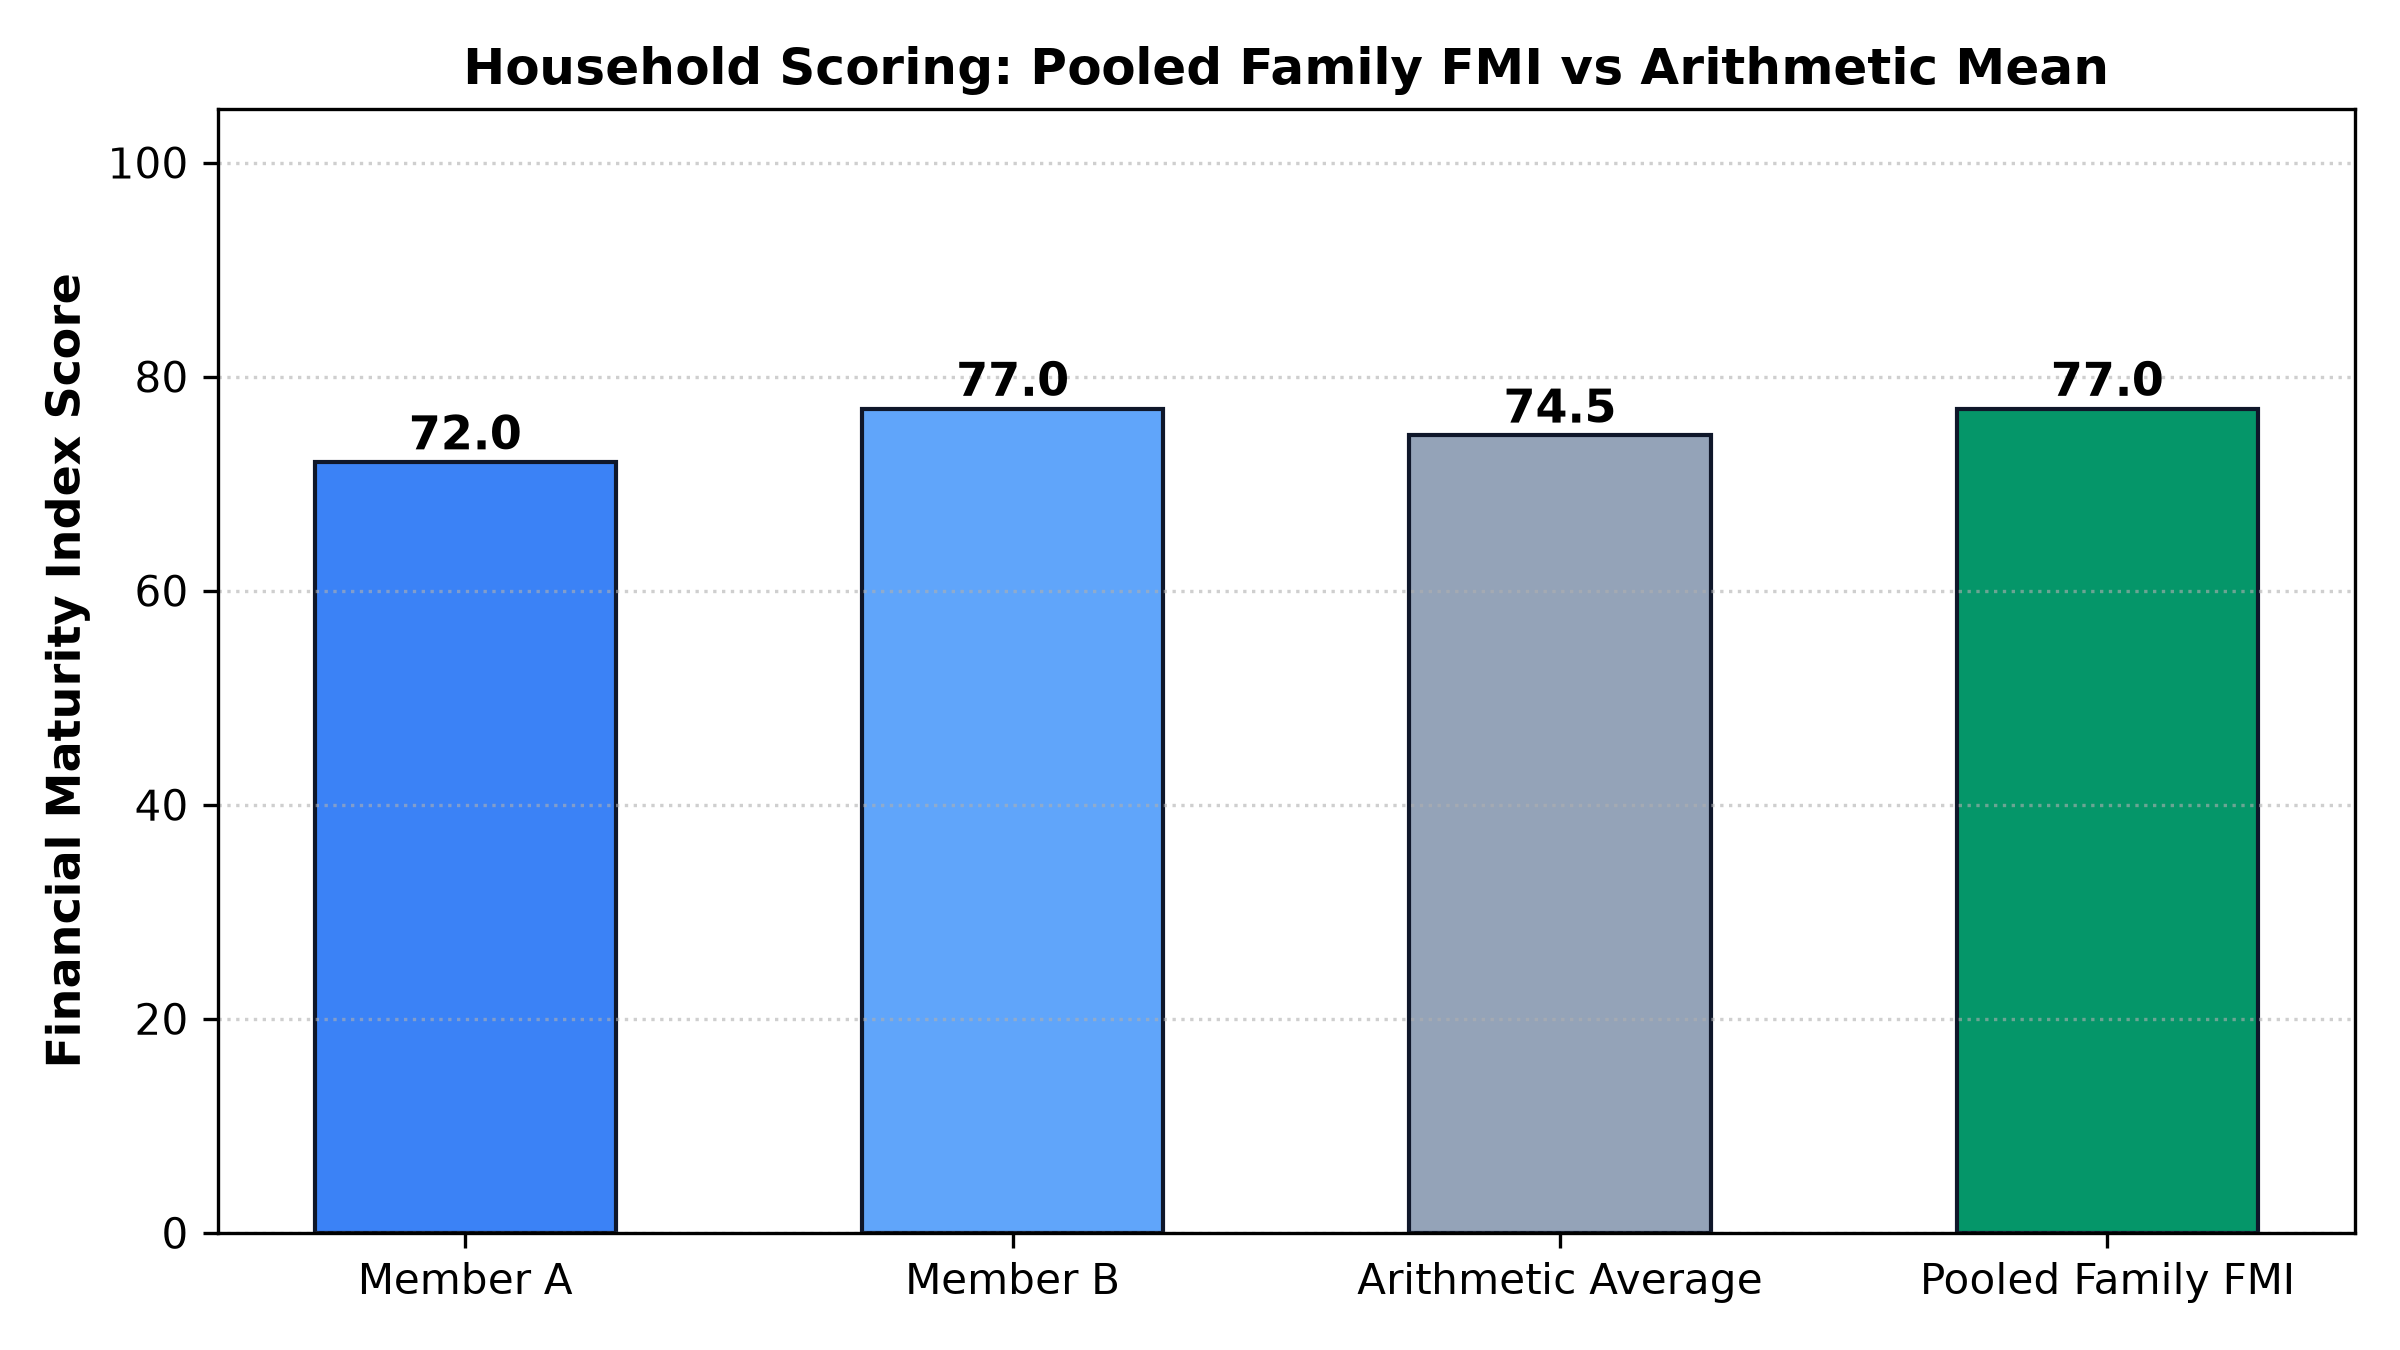
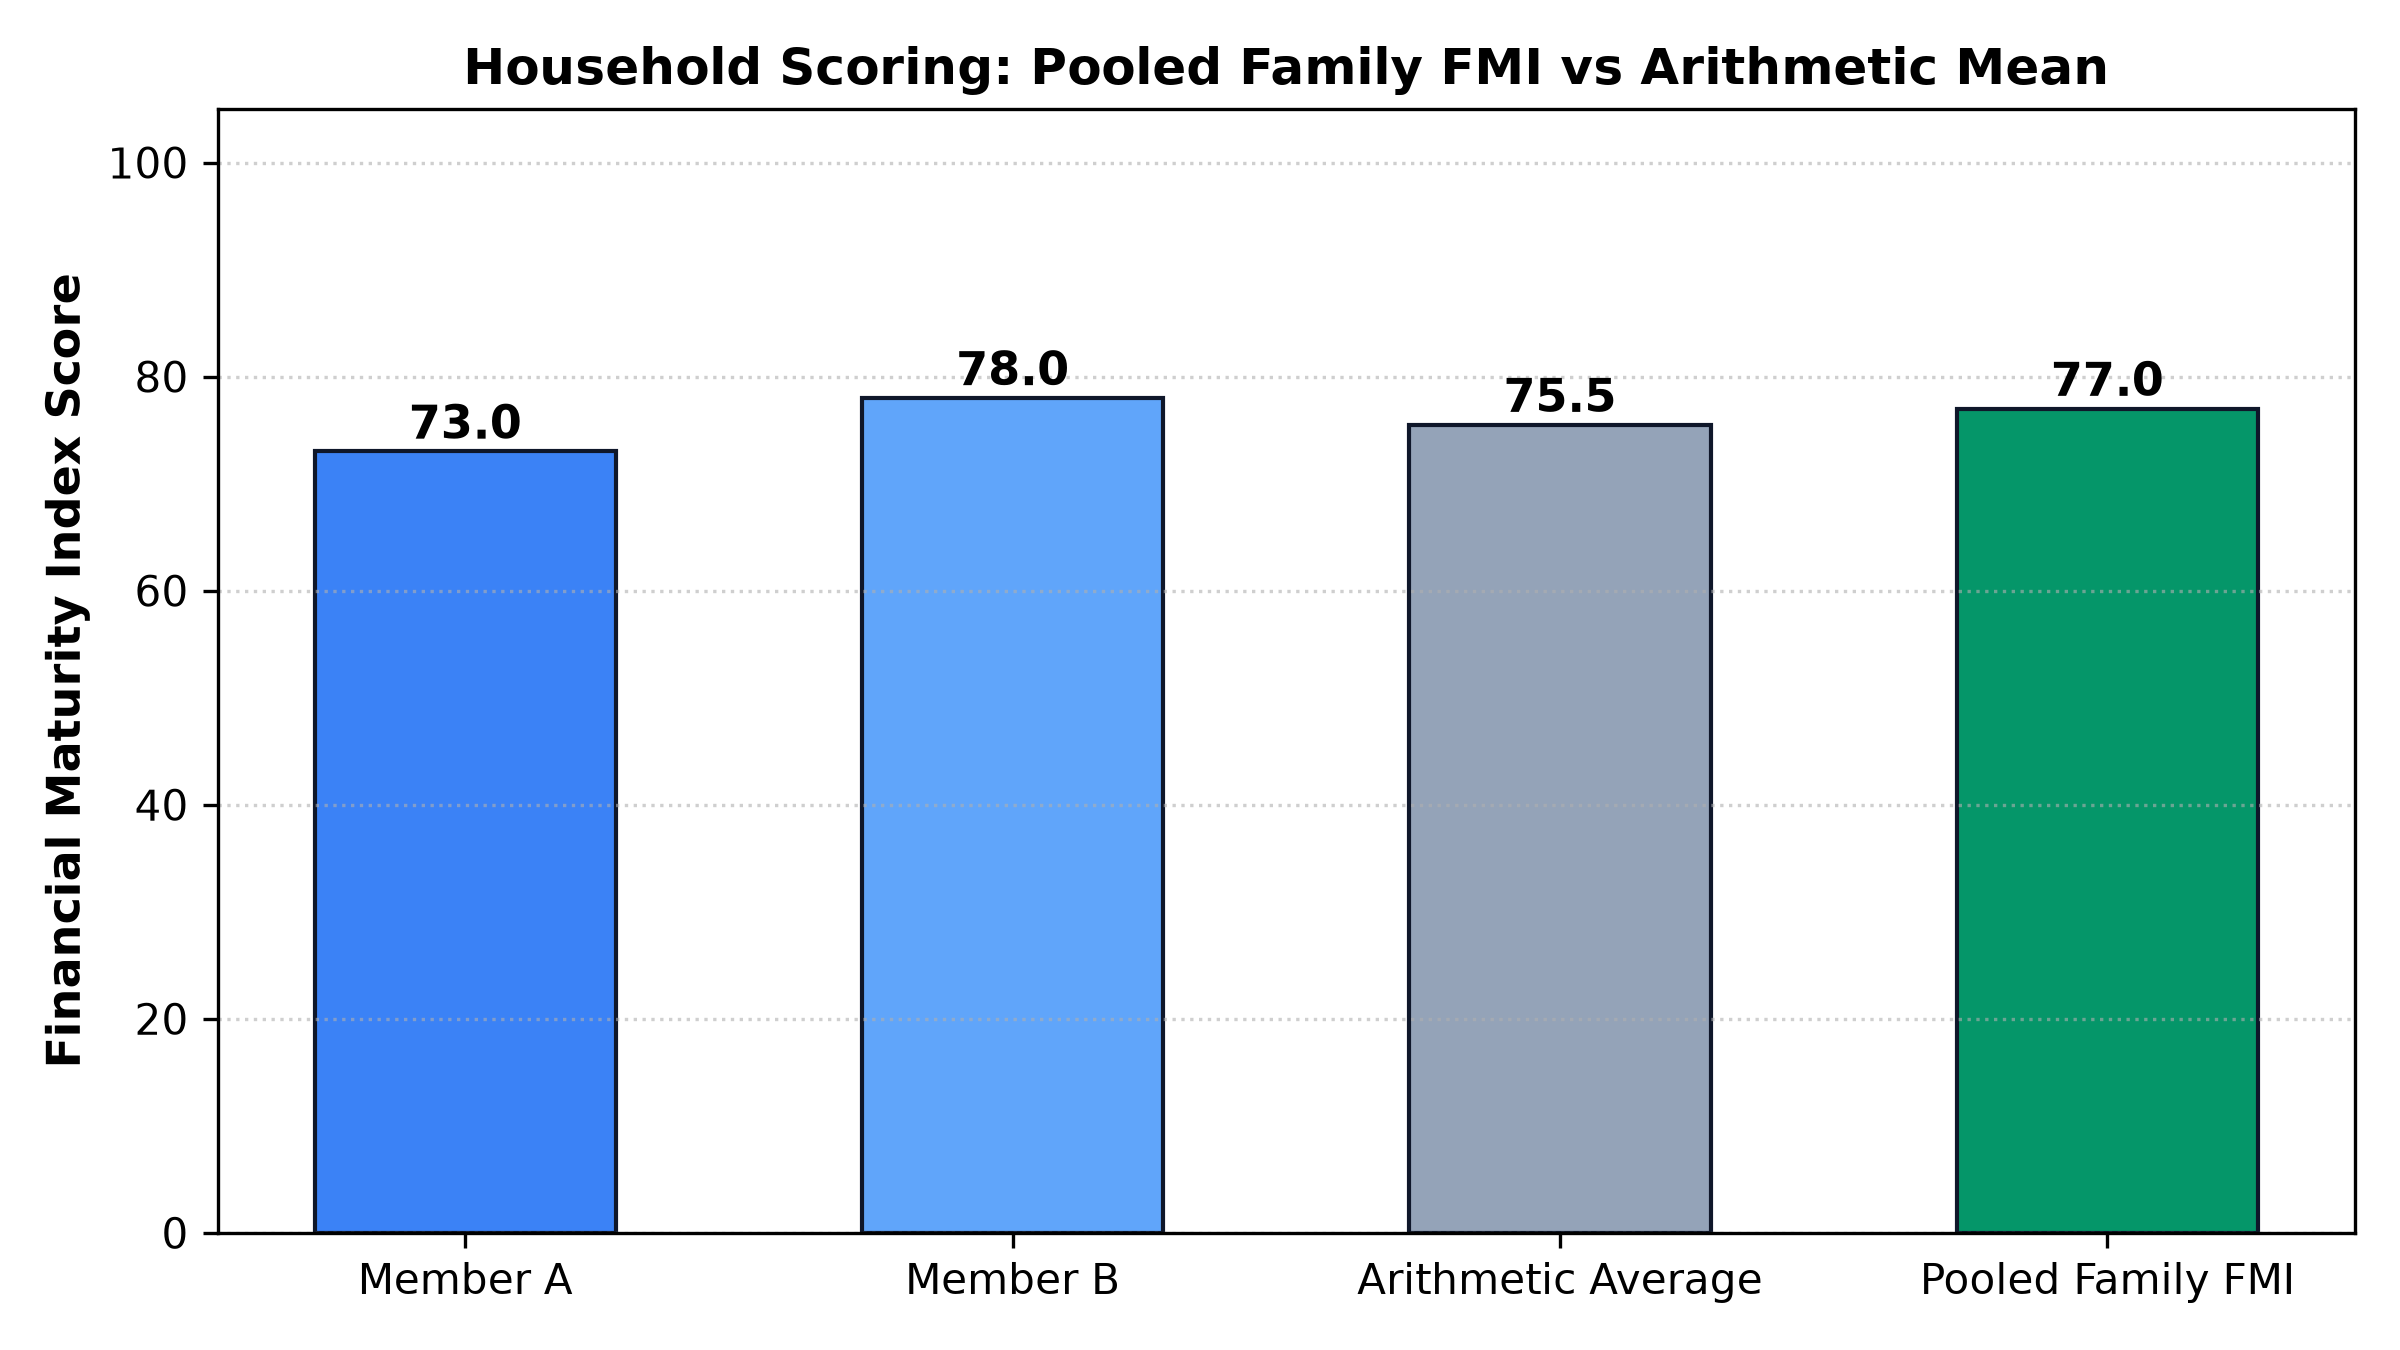
update research benchmark metrics and fix date handling in test suites

Changed region(s): [[0.5938, 0.28, 0.7188, 0.3422], [0.3438, 0.2489, 0.5, 0.3111], [0.125, 0.28, 0.25, 0.3422]]

diff --git a/server/test_liability_feature.js b/server/test_liability_feature.js
@@ -120,7 +120,8 @@ async function runTests() {
 
   await test('2.1 Standard Auto-Deduct: ₹10,000 liability debits ₹50,000 balance to ₹40,000', async () => {
     await resetDB();
-    const scheduledDate = new Date('2026-08-01T00:00:00Z');
+    const now = new Date();
+    const scheduledDate = new Date(Date.UTC(now.getUTCFullYear(), now.getUTCMonth(), 1));
 
     const l = await Liability.create({
       id: 'L-auto-1',

diff --git a/server/test_family_fmi.js b/server/test_family_fmi.js
@@ -396,7 +396,7 @@ async function runTests() {
       assert.strictEqual(dashboardResponse.spending.totalNonInvestment, 70000);
       assert.strictEqual(
         dashboardResponse.fmi.householdGoalDetail.predictedMonthlySpend,
-        dashboardResponse.pacing.predictedMonthlyNonInvestmentSpend
+        Math.round(dashboardResponse.pacing.predictedMonthlyNonInvestmentSpend)
       );
     });
 

diff --git a/server/test_fmi_characterisation.js b/server/test_fmi_characterisation.js
@@ -64,6 +64,7 @@ const res4 = calculateFMI(userClean, expenses4);
 
 // Case 5: D2 overspending (predicted spend exceeds availableMoney)
 const now = new Date();
+now.setHours(12, 0, 0, 0);
 const daysInMonth = new Date(now.getFullYear(), now.getMonth() + 1, 0).getDate();
 const daysPassed = now.getDate();
 // spend sufficient to exceed availableMoney = 80,000

diff --git a/research/results/research_tables.tex b/research/results/research_tables.tex
@@ -108,10 +108,10 @@ Empirical Variance Reduction & \textbf{29.09\%} \\
 \hline
 \textbf{Entity} & \textbf{D1 (Saving)} & \textbf{D2 (Spending)} & \textbf{D3 (Behavior)} & \textbf{Final FMI} \\
 \hline
-Member A & 77 & 37 & 100 & 72 \\
-Member B & 94 & 32 & 100 & 77 \\
-Arithmetic Average & 85.5 & 34.5 & 100.0 & 74.5 \\
-\textbf{Pooled Family Household} & \textbf{90} & \textbf{35} & \textbf{100} & \textbf{77} \\
+Member A & 77 & 40 & 100 & 73 \\
+Member B & 94 & 35 & 100 & 78 \\
+Arithmetic Average & 85.5 & 37.5 & 100.0 & 75.5 \\
+\textbf{Pooled Family Household} & \textbf{90} & \textbf{38} & \textbf{100} & \textbf{77} \\
 \hline
 \end{tabular}
 \end{table}

diff --git a/research/results/benchmark_summary.md b/research/results/benchmark_summary.md
@@ -1,7 +1,7 @@
 # FINAURA Research Benchmark Summary
 
-- **Generated At:** `2026-09-14T15:34:09.687781+00:00`
-- **Git HEAD:** `259fb37f` (`main`)
+- **Generated At:** `2026-09-15T16:54:48.541028+00:00`
+- **Git HEAD:** `cdaf3ab5` (`main`)
 - **Environment:** Python 3.13.12 on macOS-26.6.2-arm64-arm-64bit-Mach-O
 
 ---
@@ -84,4 +84,4 @@ The repository contains offline research artifacts from earlier exploratory phas
 - **Family FMI Engine:**
   Evaluates pooled household savings against summed retirement obligations.
   - **Mathematical Proof:** Family FMI is **not** the arithmetic average of individual member scores:
-    $$\text{Family FMI} (77) \neq \frac{\text{Member A} (72) + \text{Member B} (77)}{2} = 74.5$$
+    $$\text{Family FMI} (77) \neq \frac{\text{Member A} (73) + \text{Member B} (78)}{2} = 75.5$$
